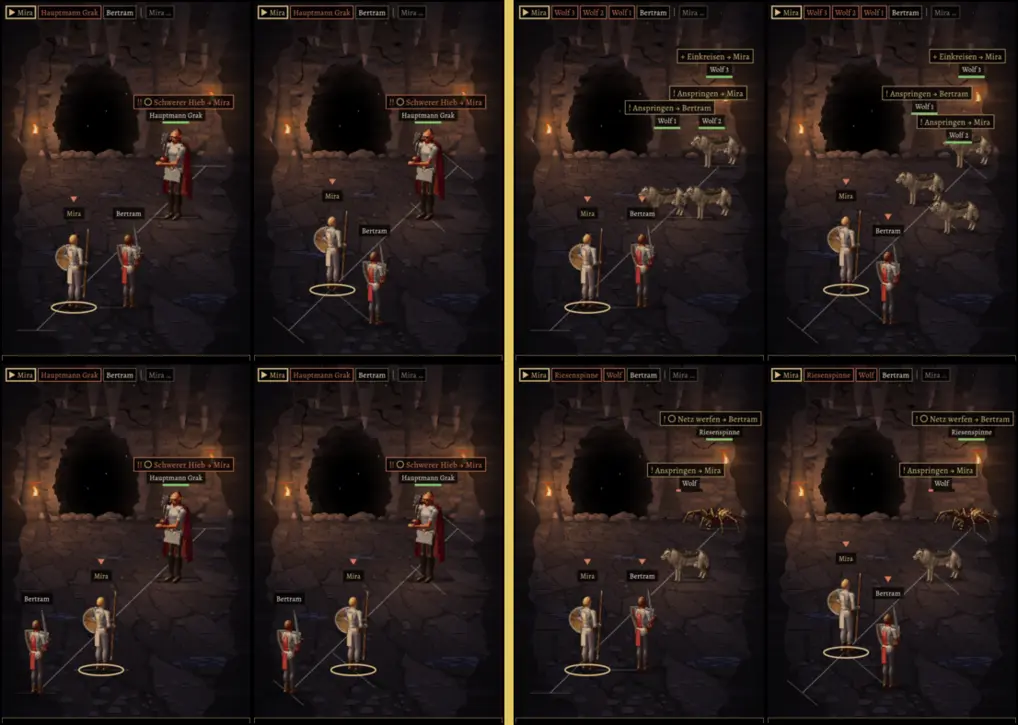
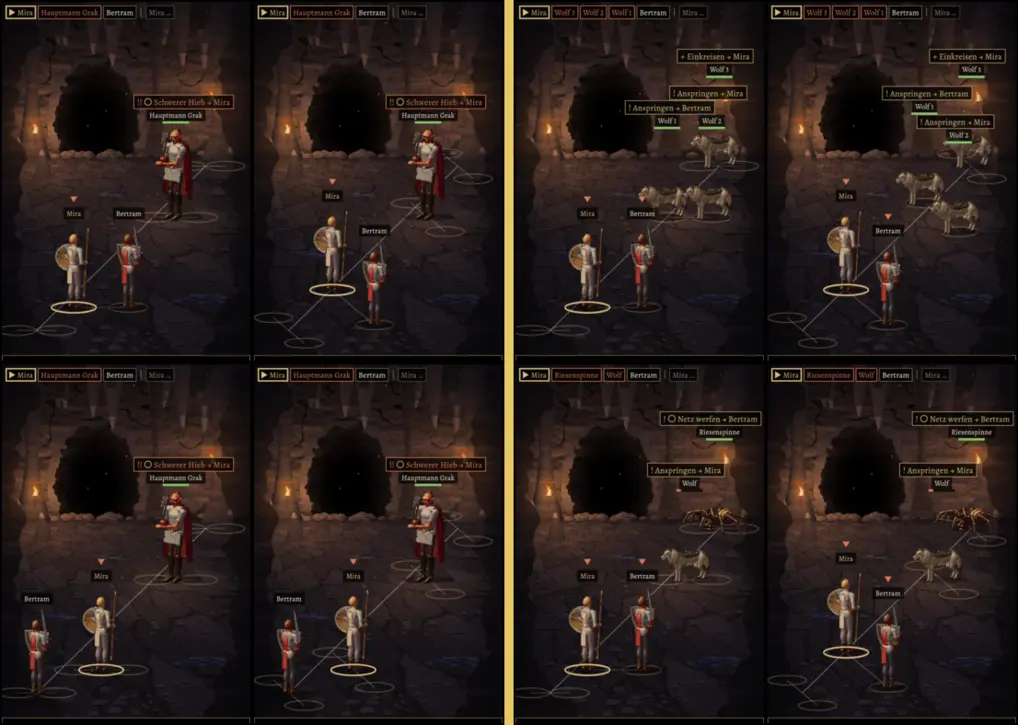
Jerry: 211.10 Vergleichsbilder mit Raster

diff --git a/docs/chefsache/entscheiden/211-vergleich.md b/docs/chefsache/entscheiden/211-vergleich.md
@@ -4,7 +4,7 @@ Kurz: je Probe links „jetzt“ (nebeneinander auf gleicher Höhe), rechts „V
 
 ![Samsung A56, je Paar links jetzt, rechts Versatz; oben: beide vorn gegen Grak, drei Wölfe; unten: Bertram hinten, Wolf und Spinne](../bilder/211-vergleich.webp)
 
-Echte MARS-Proben, gleiche Würfel; dünne Linien nur in der Vorschau: Kampfachse (durch die Reihenmitten) und je Reihe die Linie ihrer zwei Plätze. Vorschau `MARS211=grak|wolves|spider MARS211FORMAT=a56 MARS211LINIEN=1 [MARS211VERSATZ=1] [MARS211HINTEN=1]`.
+Echte MARS-Proben, gleiche Würfel; dünne Linien nur in der Vorschau: Kampfachse (durch die Reihenmitten) und je Reihe die Linie ihrer zwei Plätze; goldene Umrisse am Boden: die vier Plätze je Seite (Raster, Schalter dazu Chefsache 229, noch nicht entschieden). Eine Figur allein steht zwischen ihren zwei Umrissen. Vorschau `MARS211=grak|wolves|spider MARS211FORMAT=a56 MARS211LINIEN=1 MARS211RASTER=1 [MARS211VERSATZ=1] [MARS211HINTEN=1]`.
 
 **Beide Fassungen:** hinten nie kleiner als vorn (vorher 12 % kleiner); eine Figur allein in ihrer Reihe steht mittig auf der Achse, darum ist „Bertram hinten“ in beiden gleich. **Versatz:** die zwei Plätze einer Reihe liegen auf einer Linie quer zur Achse, gleich weit auseinander wie jetzt; die Ansagen versetzen sich dabei von selbst.
 
